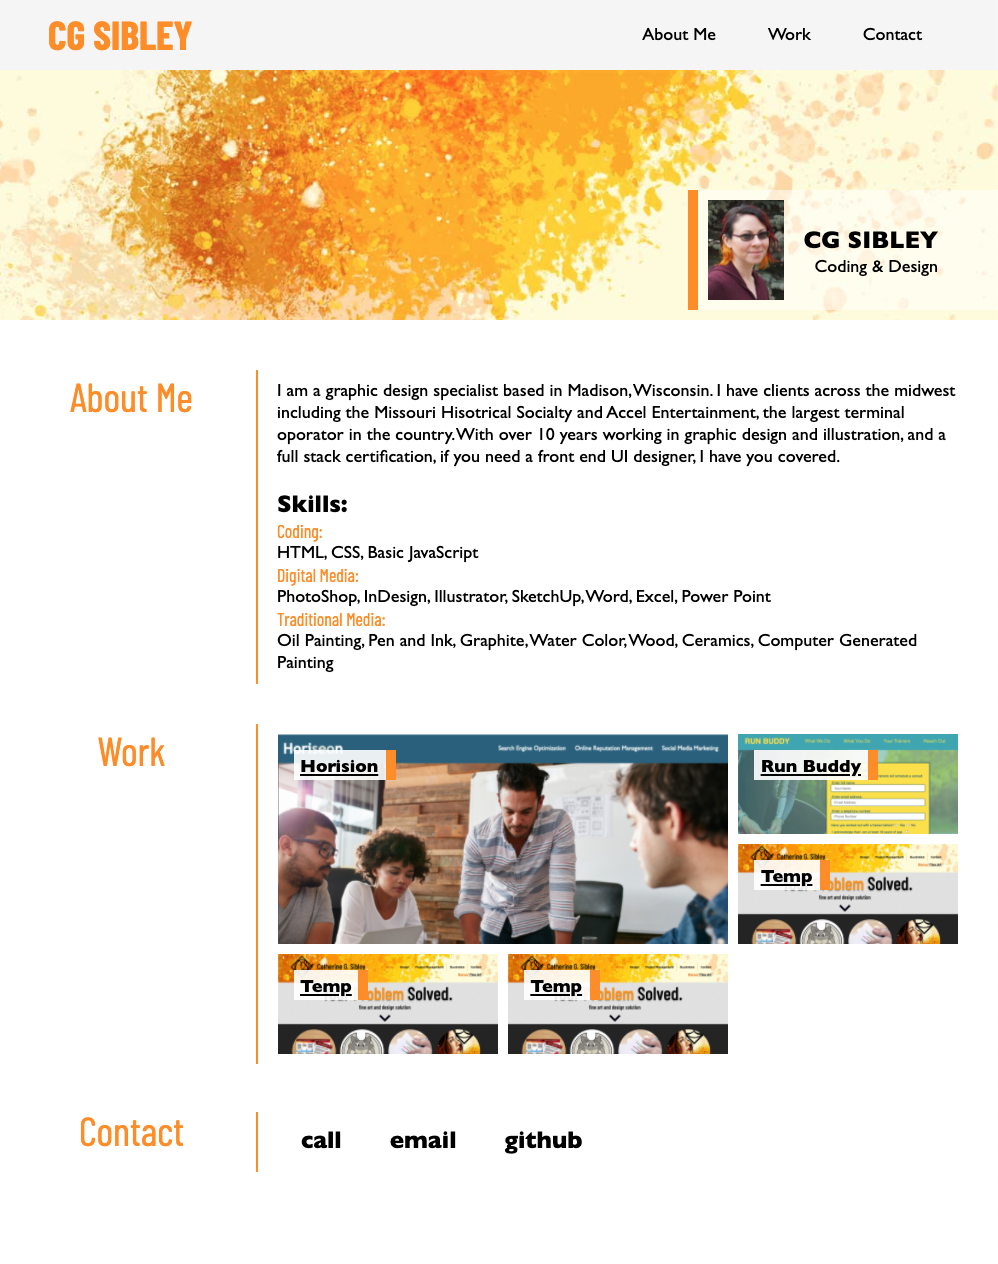
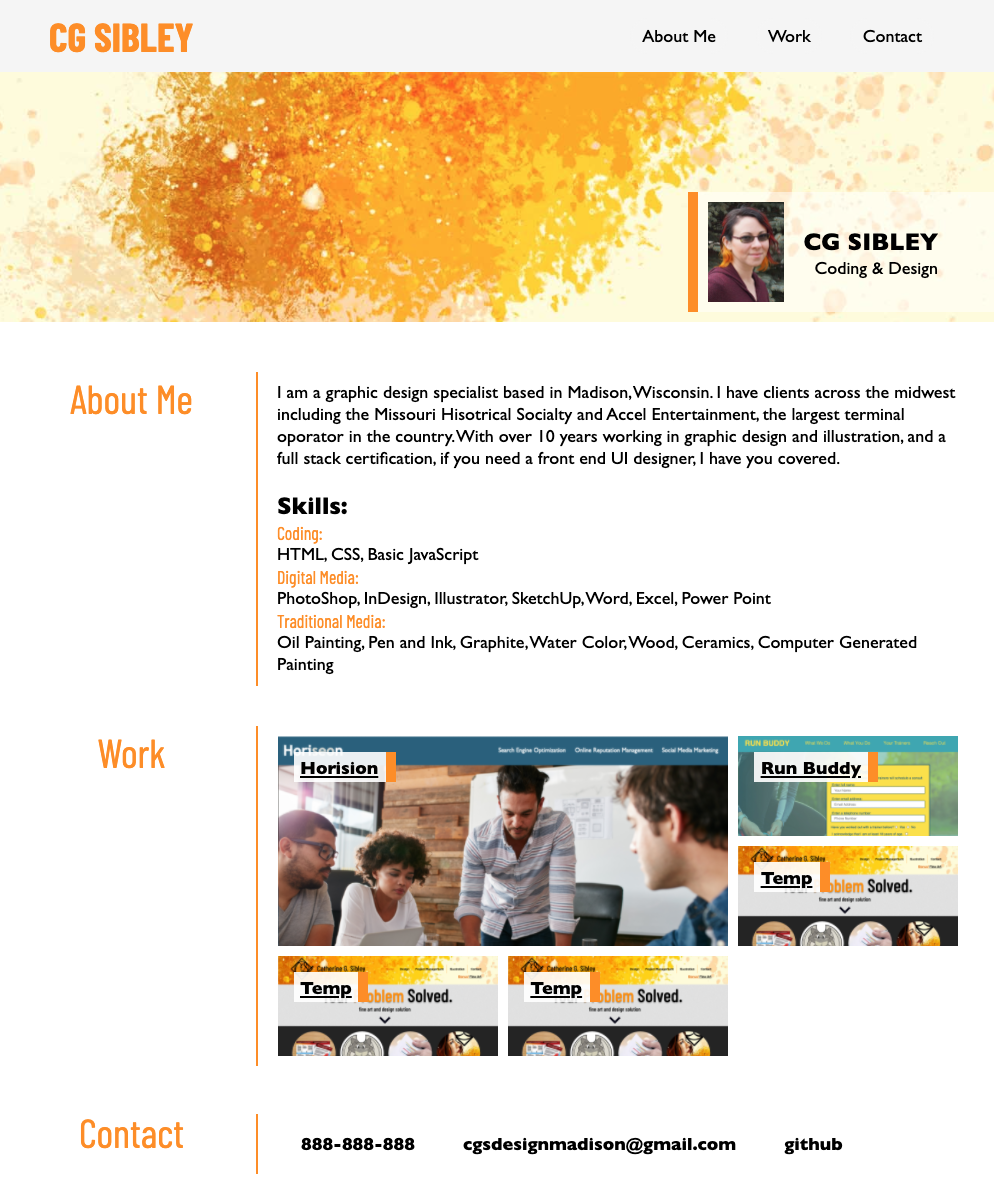
README replaced image, minior text tweek

diff --git a/index.html b/index.html
@@ -7,122 +7,121 @@
   <link rel="stylesheet" href="./assets/portfolio-style.css" />
   <meta name="viewport" content="width=device-width, initial-scale=1.0" />
   <link href="https://fonts.googleapis.com/css2?family=Barlow+Condensed:wght@400;500;700&display=swap" rel="stylesheet">
+
 <body>
     <header>
-    <!--My Name-->
-    <h1>
-    CG SIBLEY
-    </h1>
-    <!--Menu-->
-    <nav>
-        <ul>
-            <li>
-                <a href="#About Me">About Me</a>
-            </li>
-            <li>
-                <a href="#Works">Work</a>
-            </li>
-            <li>
-                <a href="#Contact">Contact</a>
-            </li>
-        </ul>  
-    </nav>
-</header>
-
-
-<!--Hero-->    
-<section class="hero">
-    <div class="hero-box">
-        <div class="inner">
-            <img src="./assets/images/Catherine.jpg" style="width:75px;" alt="Portrait of Catherine"/>
-        </div>
-        <div class="inner">  
-            <h3>CG SIBLEY</h3>
-            <p>Coding & Design</p>
-        </div>
-       
-    </div>
-</section>
-<!--MAIN BODY-->
-<main class="center">
-    <!--About Me-->    
-    <section id="About Me">
-        <div class="side-header">
-           <h2> About Me </h2>
-        </div>
-        <div class="content">
-            <p>
-                I am a graphic design specialist based in Madison, Wisconsin. I have clients across the midwest including the Missouri Hisotrical Socialty and Accel Entertainment, the largest terminal oporator in the country. With over 10 years working in graphic design and illustration, and a full stack certification, if you need a front end UI designer, I have you covered. 
-            </p> 
-            <br/> 
-            <p> 
-                <h3>Skills:</h3>
-                <h4>Coding:</h4> HTML, CSS, Basic JavaScript
-            </p> 
-            <p>
-                <h4>Digital Media:</h4>PhotoShop, InDesign, Illustrator, SketchUp, Word, Excel, Power Point
-             </p>
-            <p>  
-                <h4>Traditional Media:</h4> Oil Painting, Pen and Ink, Graphite, Water Color, Wood, Ceramics, Computer Generated Painting 
-            </p>
-        </div>
-    </section>
-    <!--Work-->  
-
-    <section id="Works">
-        <div class="side-header">
-            <h2>Work</h2>
-        </div>
-        <div class="content">
-            <div class="works-grid-container">
-                <a class="works-grid-item mainbox" href="https://cgsdesign.github.io/week-1-challenge/" target="_blank" alt="Top of Horiseon webpage with people around a table">
-                    <div class="title">
-                        <h3>Horision</h3>
-                    </div>
-                </a>
-                <a class="works-grid-item box2" href="https://cgsdesign.github.io/run-buddy-week2/" target="_blank" alt="Top of Run Buddy page with form and person tying shoes">
-                    <div class="title secondary">
-                        <h3>Run Buddy</h3>
-                    </div>
-                </a>
-                <a class="works-grid-item box3" target="_blank" href="https://www.linkedin.com/in/catherine-sibley-93677926/" target="_blank" alt="Top of CGSDesign page with examples of art work">
-                    <div class="title secondary">
-                        <h3>Temp</h3>
-                    </div>
-                </a>
-                <a class="works-grid-item box4"  target="_blank" href="https://www.linkedin.com/in/catherine-sibley-93677926/" target="_blank" alt="Top of CGSDesign page with examples of art work">
-                    <div class="title secondary">
-                        <h3>Temp</h3>
-                    </div>
-                </a>
-                <a class="works-grid-item box5" target="_blank" href="https://www.linkedin.com/in/catherine-sibley-93677926/" target="_blank" alt="Top of CGSDesign page with examples of art work">
-                    <div class="title secondary">
-                       <h3>Temp</h3>
-                    </div> 
-                </a>
-            </div>
-        </div>
-    </section>
-    <!--Contact-->
-    <section id="Contact">
-        <div class="side-header">
-            <h2>Contact</h2>
-        </div>
-        <div class="content contact">
+        <!--My Name-->
+        <h1>
+        CG SIBLEY
+        </h1>
+        <!--Menu-->
+        <nav>
             <ul>
                 <li>
-                    <h3><a href="tel:888888888">888-888-888</a></h3>
+                    <a href="#About Me">About Me</a>
                 </li>
                 <li>
-                    <h3><a href="mailto:www.cgsdesignmadison@gmail.com">cgsdesignmadison@gmail.com</a></h3>
+                    <a href="#Works">Work</a>
                 </li>
                 <li>
-                    <h3><a href="https://github.com/cgsdesign">github</a></h3>
+                    <a href="#Contact">Contact</a>
                 </li>
-            </ul>
+            </ul>  
+        </nav>
+    </header>
+
+<!--Hero-->    
+    <section class="hero">
+        <div class="hero-box">
+            <div class="inner">
+                <img src="./assets/images/Catherine.jpg" style="width:75px;" alt="Portrait of Catherine"/>
+            </div>
+            <div class="inner">  
+                <h3>CG SIBLEY</h3>
+                <p>Coding & Design</p>
+            </div>      
         </div>
     </section>
-</main>
+    
+<!--MAIN BODY-->
+    <main class="center">
+        <!--About Me-->    
+        <section id="About Me">
+            <div class="side-header">
+            <h2> About Me </h2>
+            </div>
+            <div class="content">
+                <p>
+                    I am a graphic design specialist based in Madison, Wisconsin. I have clients across the midwest including the Missouri Hisotrical Socialty and Accel Entertainment, the largest terminal oporator in the country. With over 10 years working in graphic design and illustration, and a full stack certification, if you need a front end UI designer, I have you covered. 
+                </p> 
+                <br/> 
+                <p> 
+                    <h3>Skills:</h3>
+                    <h4>Coding:</h4> HTML, CSS, Basic JavaScript
+                </p> 
+                <p>
+                    <h4>Digital Media:</h4>PhotoShop, InDesign, Illustrator, SketchUp, Word, Excel, Power Point
+                </p>
+                <p>  
+                    <h4>Traditional Media:</h4> Oil Painting, Pen and Ink, Graphite, Water Color, Wood, Ceramics, Computer Generated Painting 
+                </p>
+            </div>
+        </section>
+        <!--Work-->  
+        <section id="Works">
+            <div class="side-header">
+                <h2>Work</h2>
+            </div>
+            <div class="content">
+                <div class="works-grid-container">
+                    <a class="works-grid-item mainbox" href="https://cgsdesign.github.io/week-1-challenge/" target="_blank" alt="Top of Horiseon webpage with people around a table">
+                        <div class="title">
+                            <h3>Horision</h3>
+                        </div>
+                    </a>
+                    <a class="works-grid-item box2" href="https://cgsdesign.github.io/run-buddy-week2/" target="_blank" alt="Top of Run Buddy page with form and person tying shoes">
+                        <div class="title secondary">
+                            <h3>Run Buddy</h3>
+                        </div>
+                    </a>
+                    <a class="works-grid-item box3" target="_blank" href="https://www.linkedin.com/in/catherine-sibley-93677926/" target="_blank" alt="Top of CGSDesign page with examples of art work">
+                        <div class="title secondary">
+                            <h3>Temp</h3>
+                        </div>
+                    </a>
+                    <a class="works-grid-item box4"  target="_blank" href="https://www.linkedin.com/in/catherine-sibley-93677926/" target="_blank" alt="Top of CGSDesign page with examples of art work">
+                        <div class="title secondary">
+                            <h3>Temp</h3>
+                        </div>
+                    </a>
+                    <a class="works-grid-item box5" target="_blank" href="https://www.linkedin.com/in/catherine-sibley-93677926/" target="_blank" alt="Top of CGSDesign page with examples of art work">
+                        <div class="title secondary">
+                        <h3>Temp</h3>
+                        </div> 
+                    </a>
+                </div>
+            </div>
+        </section>
+        <!--Contact-->
+        <section id="Contact">
+            <div class="side-header">
+                <h2>Contact</h2>
+            </div>
+            <div class="content contact">
+                <ul>
+                    <li>
+                        <h3><a href="tel:888888888">888-888-888</a></h3>
+                    </li>
+                    <li>
+                        <h3><a href="mailto:www.cgsdesignmadison@gmail.com">cgsdesignmadison@gmail.com</a></h3>
+                    </li>
+                    <li>
+                        <h3><a href="https://github.com/cgsdesign">github</a></h3>
+                    </li>
+                </ul>
+            </div>
+        </section>
+    </main>
 
 </body>
 </html>

diff --git a/assets/portfolio-style.css b/assets/portfolio-style.css
@@ -18,12 +18,12 @@ body {
 }
 h1 {
     font-family: 'Barlow Condensed', sans-serif;
-    color:#ff8d0a;
-    font-size: 40px;
+    color: var(--orange);
+    font-size: 44px;
 }
 h2 {
     font-family: 'Barlow Condensed', sans-serif;
-    color:#ff8d0a;
+    color: var(--orange);
     font-size: 40px;
     font-weight: 400;
 }
@@ -33,7 +33,7 @@ h3 {
 }
 h4 {
     font-family: 'Barlow Condensed', sans-serif;
-    color:#ff8d0a;
+    color: var(--orange);
     font-size: 16px;
     font-weight: 400;
 }
@@ -55,10 +55,12 @@ header h2 {
   color: var(--orange);
   margin: 0;
 }
+
 header a{
     text-decoration: none;
     color: black;
 }
+
 header nav {
     margin: 7px 0;
 }
@@ -104,7 +106,7 @@ header nav ul li:hover{
     margin: 100px 0 0 0;
     padding: 0 5% 0 0;
     background-color: rgba(300, 300, 300, .5);
-    border-left: #ff8d0a 10px solid;
+    border-left:  var(--orange) 10px solid;
     font-family: 'Open Sans', 'Gill Sans', sans-serif;
     display: flex;
   }
@@ -200,7 +202,7 @@ section {
     padding: 5px 7px 5px 7px;
     margin:0;
     background-color: rgba(300, 300, 300, .9);
-    border-right: #ff8d0a 10px solid;
+    border-right:  var(--orange) 10px solid;
     max-height: 30px;
   }
 
@@ -236,14 +238,9 @@ section {
 .contact ul li h3 a:hover{
     color: var(--orange);
   }
-
-
-
 /*main "computer size" body end*/
 
-
-
-/* mediaqueries by size */
+/* _______________________mediaqueries by size_________________________ */
 @media screen and (max-width: 980px) {
     /*hero*/
     .hero {

diff --git a/README.md b/README.md
@@ -2,7 +2,7 @@
 
 ## Creating a Clear and Responsive Personal Portfolio
 
-### Live site at [Horiseon Service Challenge](https://cgsdesign.github.io/portfolio/)
+### Live site at [CG Sibley Design](https://cgsdesign.github.io/portfolio/)
 
 For this project I created a personal webpage for my portfolio. The goal was to create a clear and concise page to describe me, show my work, and allow others to contact me.
 The branding follows my personal print collateral. The page is designed to be fully responsive and intuitive in order to bring in recruiters and future employers.
